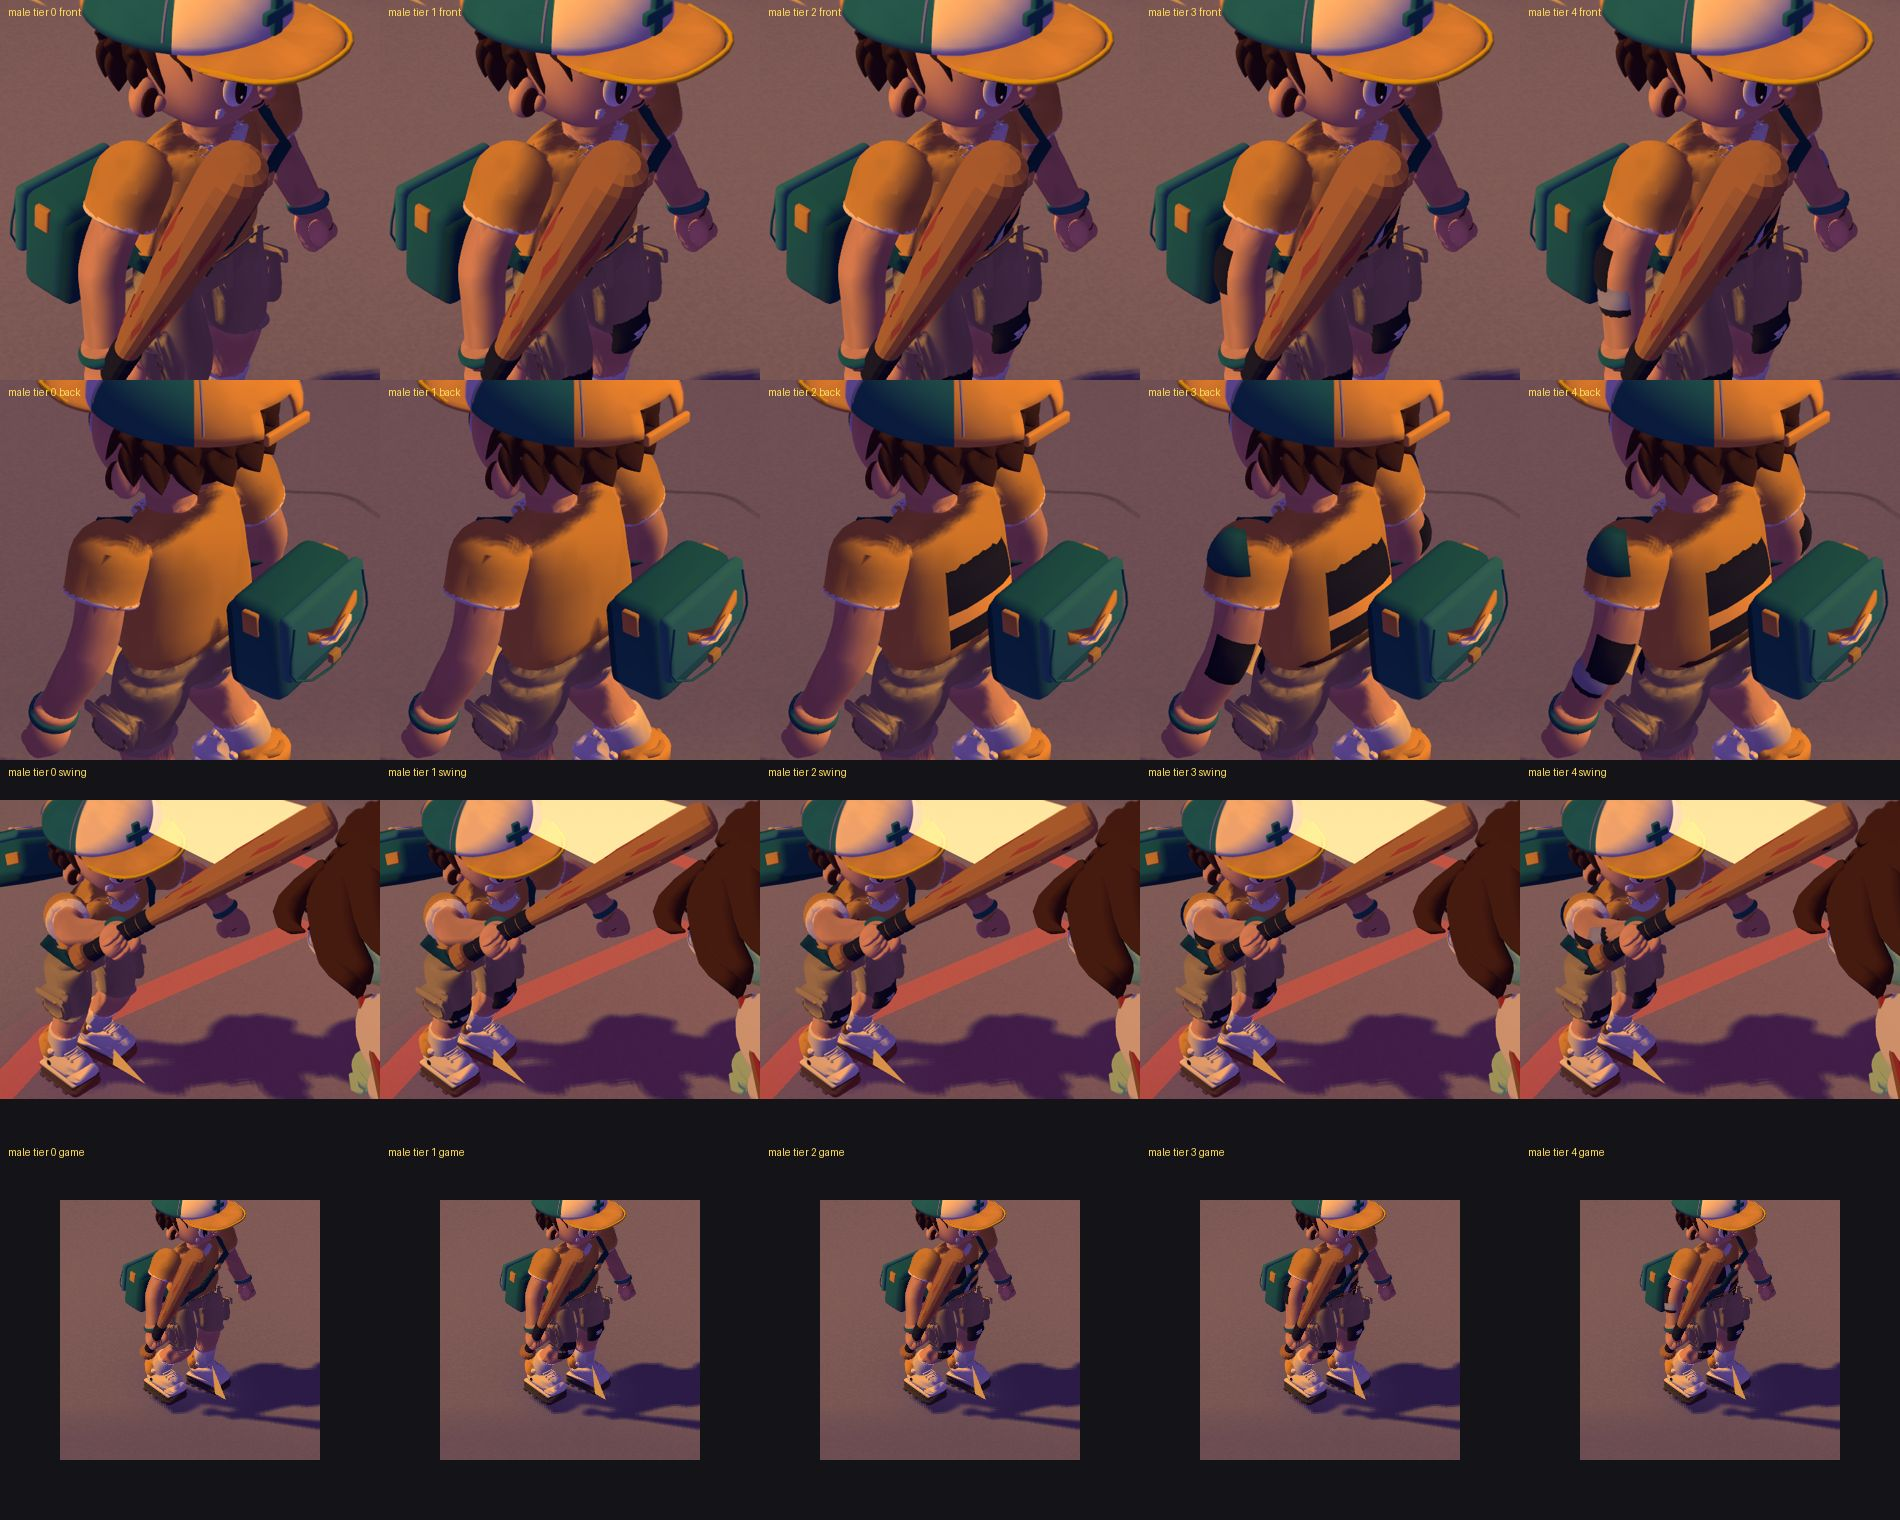
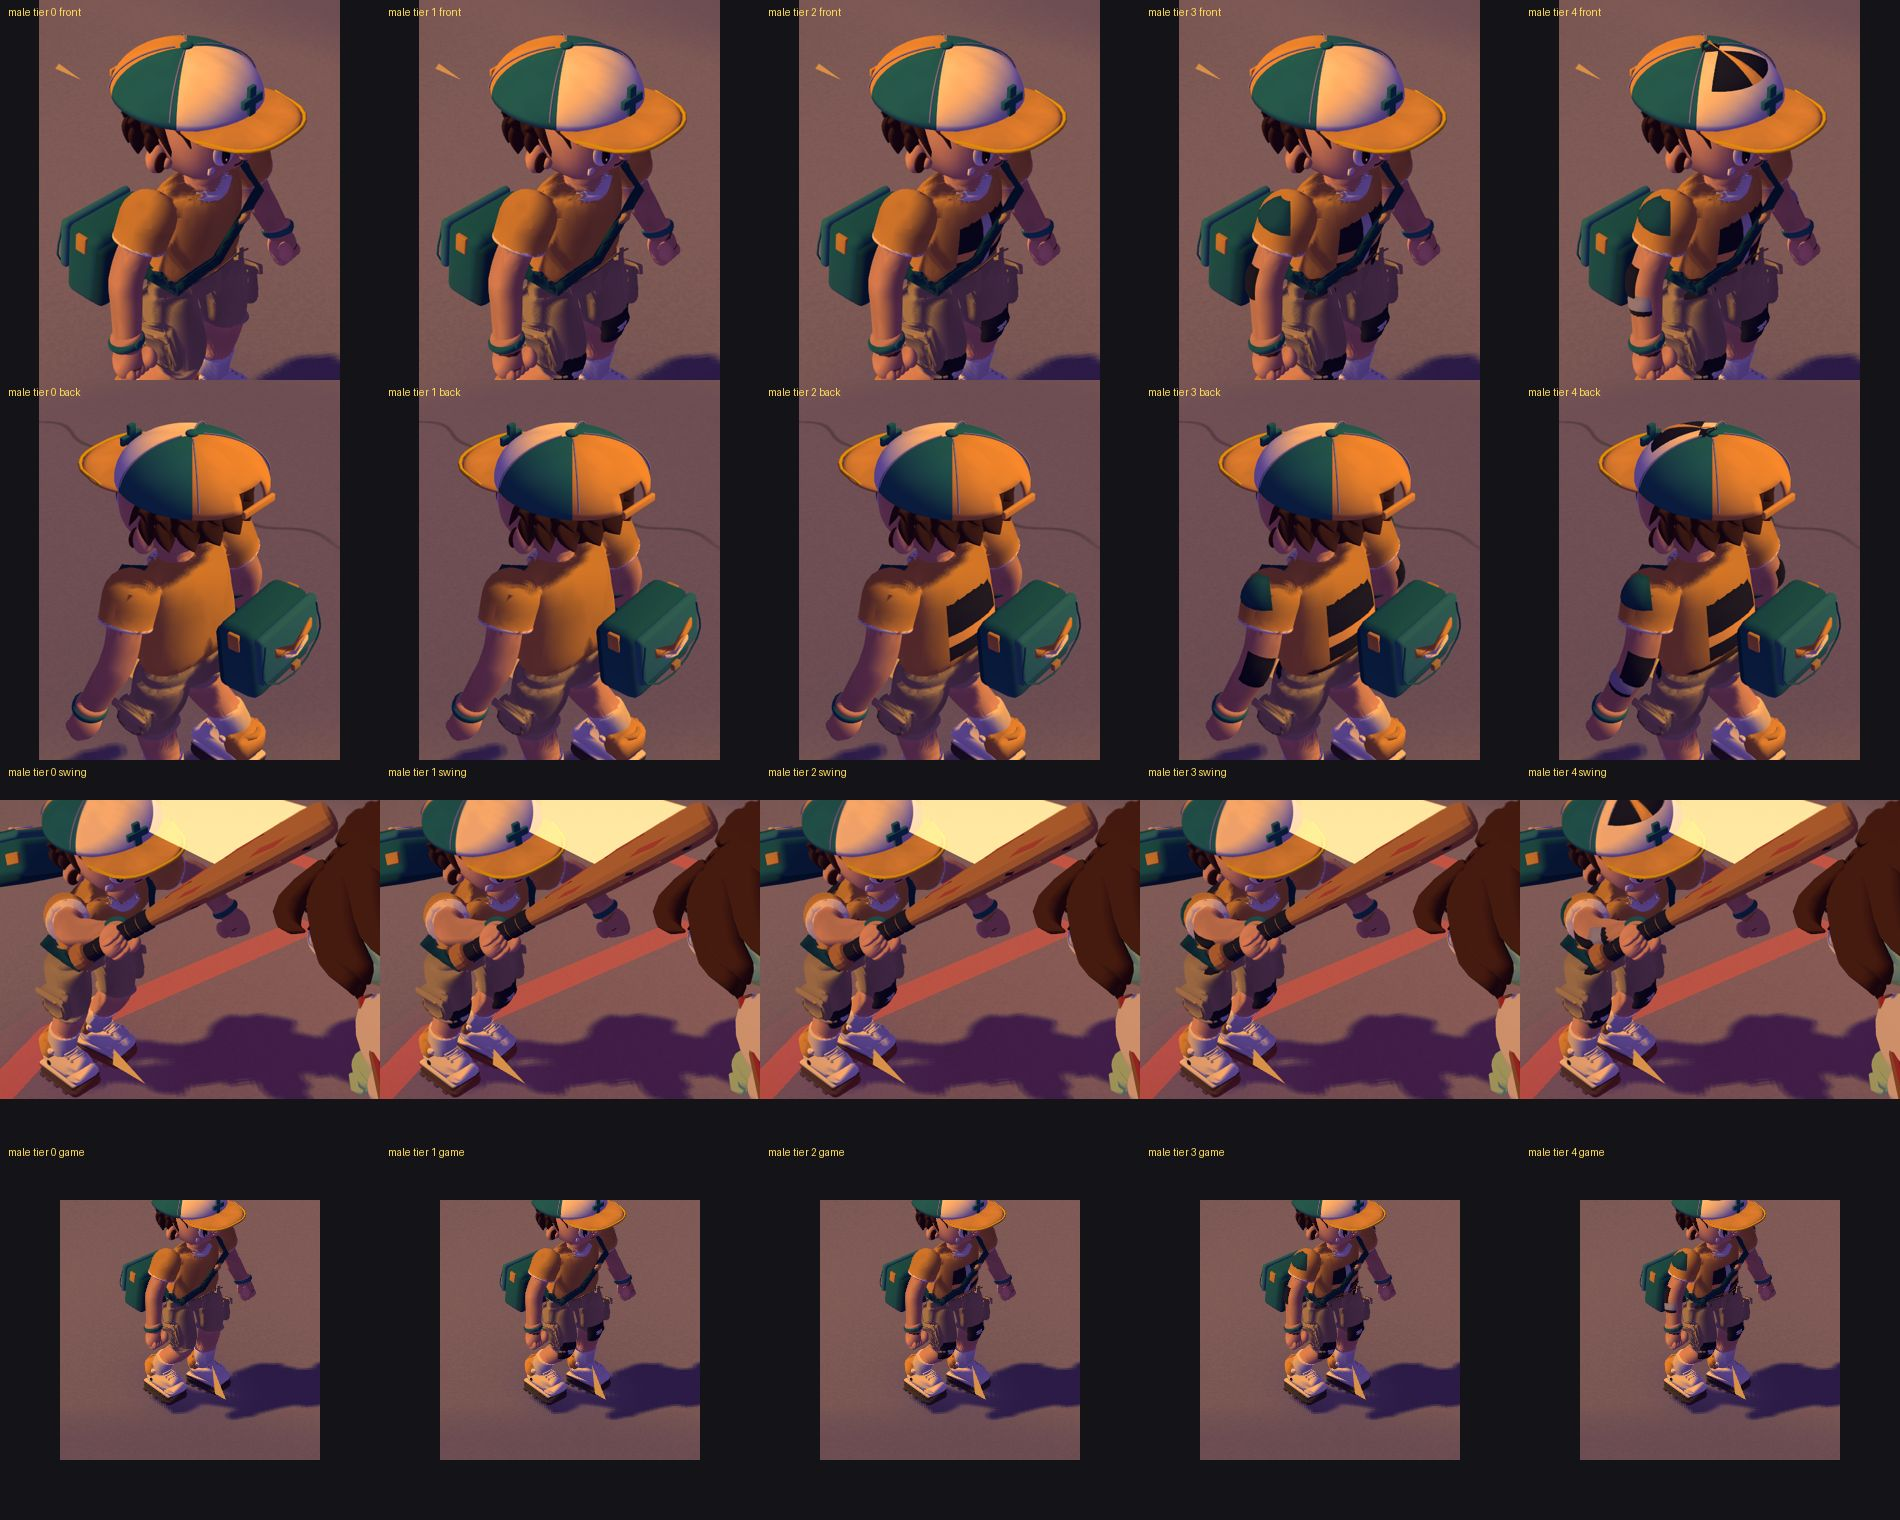
wip(E04): gear-live tool, sheets
Claude-Session: https://claude.ai/code/session_01R2Hhh41gjaAMkcFWkMvgh7

diff --git a/tools/scenelab/gear-live.ts b/tools/scenelab/gear-live.ts
@@ -1,0 +1,37 @@
+import { mkdirSync } from 'node:fs';
+import { SceneSession, stopServer, origin, type Backend } from './session';
+import { preset, type ProgressionPreset } from '../../src/sim/progression/Campaign';
+
+/** npm run gear:live -- --backend webgpu --tier high --out dir
+ * Live levels with a progressed save: L3 at gear tier 2 (day) and L5 at gear tier 4 (night), both survivors, game camera at its default and its
+ * closest zoom. Writes full-viewport PNGs plus a crop around the courier (the evidence for docs/reports/gear-art). */
+const args = process.argv.slice(2), flag = (n: string) => { const i = args.indexOf(`--${n}`); return i >= 0 ? args[i + 1] : undefined; };
+const backend = (flag('backend') ?? 'webgpu') as Backend, tier = (flag('tier') ?? 'high') as 'high' | 'low', out = flag('out') ?? 'test-results/gear-live';
+const cases: { level: string; save: ProgressionPreset; expectTier: number; time?: string }[] = [
+  { level: 'L3', save: 'L4-default', expectTier: 2 },
+  { level: 'L5', save: 'L6-default', expectTier: 4, time: 'night' },
+];
+mkdirSync(out, { recursive: true });
+const session = new SceneSession({ backend, tier, viewport: { width: 1280, height: 720 }, log: () => {} });
+try {
+  await session.open();
+  const report: unknown[] = [];
+  for (const c of cases) for (const model of ['female', 'male'] as const) {
+    await session.page.goto(`${origin}/?test=1&renderer=${backend === 'webgpu' ? 'webgpu' : 'webgl'}&dpr=1&quality=${tier}&audio=muted&seed=1&level=${c.level}`);
+    await session.page.waitForFunction(() => !!window.__SS__, null, { timeout: 120_000 });
+    await session.page.evaluate(async () => { await window.__SS__!.ready; window.__SS__!.pause(); });
+    const save = { ...preset(c.save), character: model };
+    await session.page.evaluate(async (s) => { window.__SS__!.campaign.restore(s as never); window.__SS__!.step(30); await window.__SS__!.screenshotReady(); }, save);
+    if (c.time) await session.page.evaluate(t => window.__SS__!.settings.set({ timeOfDay: t } as never), c.time);
+    const state = await session.page.evaluate(() => window.__SS__!.getState());
+    const character = state.render.character!;
+    for (const zoom of ['default', 'close'] as const) {
+      if (zoom === 'close') await session.page.evaluate(() => { for (let i = 0; i < 12; i++) window.dispatchEvent(new WheelEvent('wheel', { deltaY: -400 })); window.__SS__!.step(10); });
+      await session.page.evaluate(async () => { await window.__SS__!.screenshotReady(); });
+      const path = `${out}/${c.level}-tier${character.gearTier}-${model}-${zoom}.png`;
+      await session.page.screenshot({ path, type: 'png' });
+      report.push({ path, level: c.level, model, zoom, gearTier: character.gearTier, expected: c.expectTier, variant: character.variant, position: character.position });
+    }
+  }
+  console.log(JSON.stringify(report, null, 1));
+} finally { await session.close(); stopServer(); }
